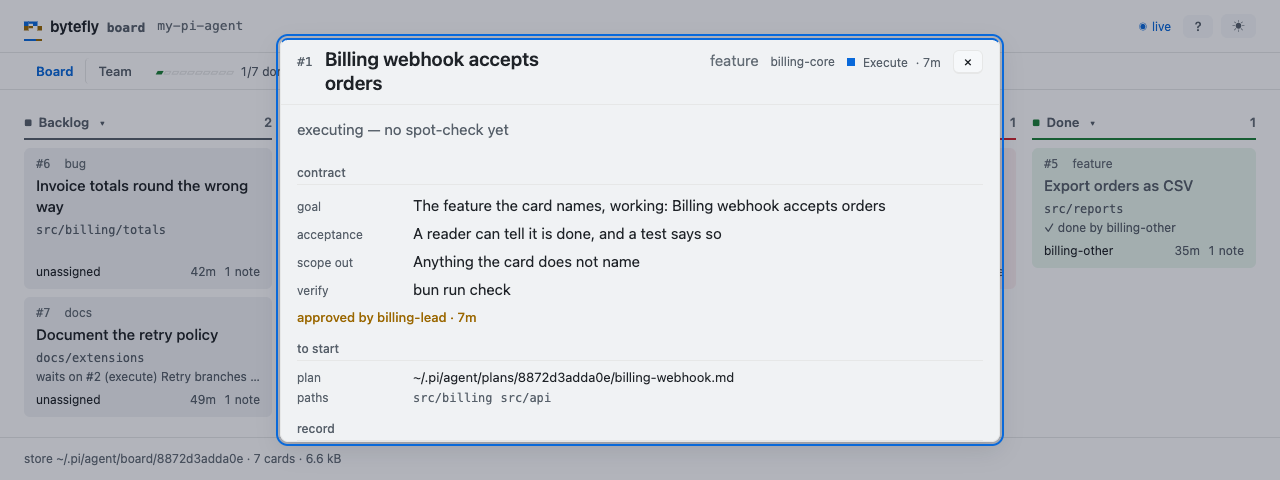
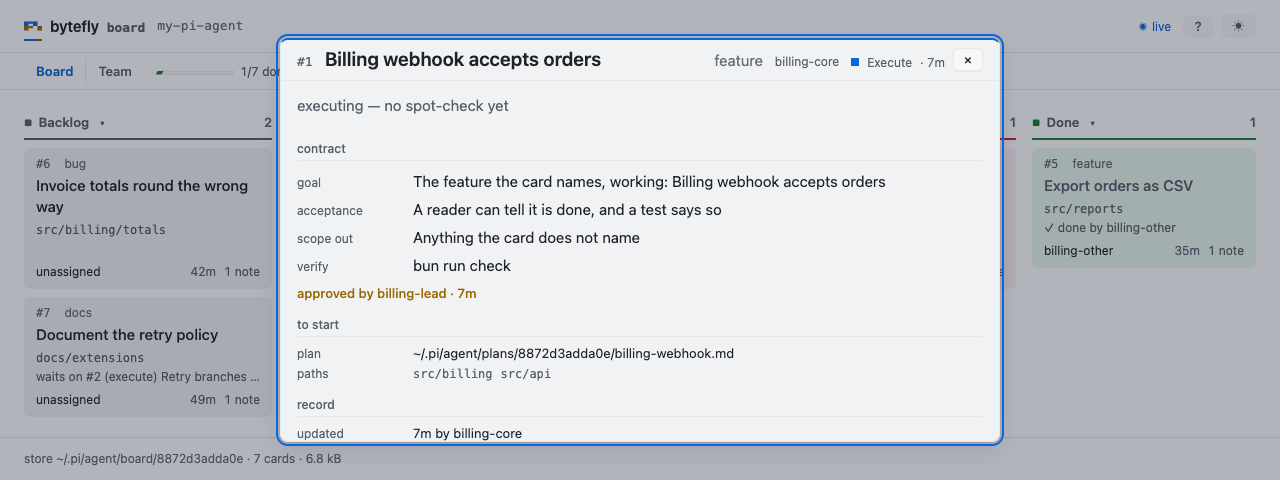
fix(board): give the card dialog's title the head's row
The head was one flex line: the id, the title on a 12ch basis, a kit spacer
that grew, then the card's type, owner, priority and lane. The spacer took
the slack before the title could, so the title wrapped in the column that
was left - 271px of a 686px row on the board's longest cards, six lines for
a CJK title, and the panel's height paid for it.

The spacer is gone and the title's basis is the row. The close button is
pinned in the panel's corner instead of riding last in the line, so a meta
that wraps cannot carry it mid-header; the head reserves its width, and the
panel gains the position an absolute child needs - the kit's own sets none,
which drew the button outside the dialog on the first attempt.

A long title now reads at 448px in two lines with a 65px head, and the meta
wraps under it only when the title needs the room, so a short title keeps
its one-line head. header-behaviour.test.ts measures that: the title owns
half the head's row, it does not clip, and the close's box stays inside the
panel at 1280 and 620. Restoring the old markup fails it, which is the
point - a rule can be right while the row is still short.

The dialog's screenshot is recaptured, its site copy synced, and the alt
text corrected: it described two notes no capture shows, at a height the
file has never been.

diff --git a/extensions/board/view/header-behaviour.test.ts b/extensions/board/view/header-behaviour.test.ts
@@ -1,0 +1,132 @@
+/**
+ * The card dialog's head, measured the way a layout defect has to be.
+ *
+ * Split from `dialog-behaviour.test.ts`, which is at its line budget, and from `run-row-behaviour`;
+ * the question is its own: the head is one flex line, and whether the title gets the row depends on
+ * arithmetic no rule can be read for. A declaration can be right while the row is still short — a
+ * spacer creeping back into the markup, a narrower panel, a meta that grows a field — so the case
+ * measures the boxes instead of the stylesheet.
+ *
+ * It needs a browser; where the machine has none it skips, naming `PI_CHROME`.
+ */
+
+import { afterAll, beforeAll, describe, expect, test } from "bun:test";
+import type { Page } from "playwright-core";
+import {
+	BOARD_CHROME as CHROME,
+	BOARD_PAINT_MS as PAINT_MS,
+	type BoardBrowser,
+	openBoardBrowser,
+} from "../../../test/helpers/board-browser.ts";
+import type { ElementLike } from "../../../test/helpers/board-dom.ts";
+import { LEAD, seedWorkingBoard } from "../../../test/helpers/board-fixture.ts";
+import { makeClock } from "../../../test/helpers/clock.ts";
+
+/** A fixed clock: the page prints ages, and a test that read the wall clock would drift. */
+const clock = makeClock(1_760_000_000_000);
+
+/** The board the suite reads. */
+let board: BoardBrowser;
+
+/** The suite's one tab, its document reloaded for each case. */
+const openPage = (): Promise<Page> => board.reuse();
+
+/** One box, in the page's own coordinates. */
+interface Box {
+	clientWidth: number;
+	scrollWidth: number;
+	left: number;
+	right: number;
+}
+
+/**
+ * The title's box and the panel's corner, read in the page.
+ *
+ * Two boxes and not a style: the title can be told to grow and still be drawn short, and a close
+ * that exists can still be drawn outside the panel it belongs to.
+ */
+const BOXES = (): { title: Box; close: Box; panel: Box; content: number } => {
+	const doc = globalThis as unknown as {
+		document: { querySelector(selector: string): ElementLike | null };
+		getComputedStyle(node: ElementLike): { paddingLeft: string; paddingRight: string };
+	};
+	const box = (selector: string): Box => {
+		const node = doc.document.querySelector(selector) as unknown as {
+			clientWidth: number;
+			scrollWidth: number;
+			getBoundingClientRect(): { left: number; right: number };
+		} | null;
+		if (node === null) throw new Error(`no ${selector} to measure`);
+		const rect = node.getBoundingClientRect();
+		return { clientWidth: node.clientWidth, scrollWidth: node.scrollWidth, left: rect.left, right: rect.right };
+	};
+	// The row the title is meant to own: the head's content box, its own padding taken out. The
+	// threshold below is a share of this, so it travels with the panel's width and the head's spacing.
+	const head = doc.document.querySelector(".board-dialog__head") as unknown as {
+		clientWidth: number;
+	} | null;
+	if (head === null) throw new Error("no .board-dialog__head to measure");
+	const style = doc.getComputedStyle(head as unknown as ElementLike);
+	return {
+		title: box("#card-dialog-title"),
+		close: box("#card-dialog-close"),
+		panel: box(".board-dialog__panel"),
+		content: head.clientWidth - parseFloat(style.paddingLeft) - parseFloat(style.paddingRight),
+	};
+};
+
+describe.skipIf(CHROME === undefined)("the card dialog's head", () => {
+	beforeAll(async () => {
+		board = await openBoardBrowser({
+			lead: LEAD.label,
+			now: clock.now,
+			seed: seedWorkingBoard,
+			display: { repo: "my-pi-agent", root: "/Users/someone/my-pi-agent", where: "~/.pi/agent/board/head" },
+		});
+	}, 30_000);
+
+	afterAll(async () => {
+		await board?.close();
+	}, 30_000);
+
+	test("gives the title the row, and keeps the close inside the panel at both widths", async () => {
+		const page = await openPage();
+		await page.click("#lane-execute .bf-row__title");
+		await page.waitForSelector("#board-card-dialog:not([hidden])", { timeout: PAINT_MS });
+
+		// At 1280 the title's box is most of the head's row. The share, not a pixel count: the old
+		// head's spacer grew first and left the title its 12ch basis, about a quarter of the row, so
+		// half is the line between "the title owns the row" and "something else grew first" — and a
+		// share travels with the panel, the padding and the meta, where 400px did not.
+		const wide = await page.evaluate(BOXES);
+		expect(wide.title.clientWidth * 2).toBeGreaterThanOrEqual(wide.content);
+		// And the title does not overflow its own box: a width assertion alone passes on a title drawn
+		// past the column it was given, which is the clipped-row lesson one row up.
+		expect(wide.title.scrollWidth).toBeLessThanOrEqual(wide.title.clientWidth);
+		// The close is a box, not a presence: the first attempt at pinning it drew the button outside the
+		// panel entirely, and "the element exists" was true the whole time it was gone.
+		expect(wide.close.right).toBeLessThanOrEqual(wide.panel.right);
+		expect(wide.close.left).toBeGreaterThanOrEqual(wide.panel.left);
+
+		// At 620 the meta has to wrap under the title; the title still may not clip, and the pinned
+		// close still belongs to the panel rather than to the row it just stopped sharing.
+		await page.setViewportSize({ width: 620, height: 900 });
+		// A wait for the resize itself, not a sleep: the panel is `min(720px,100%)`, so it only narrows
+		// once the new viewport has been laid out, and the head's reflow is what changed with it.
+		await page.waitForFunction(
+			(previous) => {
+				const doc = globalThis as unknown as {
+					document: { querySelector(selector: string): { clientWidth: number } | null };
+				};
+				const panel = doc.document.querySelector(".board-dialog__panel");
+				return panel !== null && panel.clientWidth < previous;
+			},
+			wide.panel.clientWidth,
+			{ timeout: PAINT_MS },
+		);
+		const narrow = await page.evaluate(BOXES);
+		expect(narrow.title.scrollWidth).toBeLessThanOrEqual(narrow.title.clientWidth);
+		expect(narrow.close.right).toBeLessThanOrEqual(narrow.panel.right);
+		expect(narrow.close.left).toBeGreaterThanOrEqual(narrow.panel.left);
+	});
+});

diff --git a/extensions/board/view/styles.ts b/extensions/board/view/styles.ts
@@ -369,10 +369,15 @@ ${DECISION_WHY_CSS}
    Nothing here scrolls on its own — the kit's body is the one scrollbar. */
 /* A little taller than the kit's default: this dialog is the only place a whole card —
    its facts, its plan, and every note it kept — can be read. */
-.board-dialog__panel{width:min(720px,100%);max-height:84vh;background:var(--raised);box-shadow:var(--shadow-2)}
-/* A long title wraps beside its id instead of pushing the close button off the head. */
-.board-dialog__head{flex-wrap:wrap;align-items:baseline;row-gap:var(--space-1)}
-.board-dialog__head h2{flex:1 1 12ch;min-width:0;font-size:var(--fs-lg);line-height:var(--lh-tight);overflow-wrap:anywhere}
+.board-dialog__panel{position:relative;width:min(720px,100%);max-height:84vh;background:var(--raised);box-shadow:var(--shadow-2)}
+/* The title takes the row's slack and the meta wraps beneath it only when it needs the width, which
+   is what a fixed spacer in the head used to prevent: it grew first, so a long title wrapped in the
+   column that was left over. The close sits out of the flow in the panel's corner — pinned rather
+   than last in the line, so a meta that wraps cannot carry it mid-header — and the right padding
+   keeps the title clear of it: the kit's icon button is 30px wide, drawn from its own corner. */
+.board-dialog__head{flex-wrap:wrap;align-items:baseline;row-gap:var(--space-1);padding-right:calc(var(--space-4) + 30px + var(--space-2))}
+.board-dialog__head h2{flex:1 1 22ch;min-width:0;font-size:var(--fs-lg);line-height:var(--lh-tight);overflow-wrap:anywhere}
+.board-dialog__head #card-dialog-close{position:absolute;top:var(--space-2);right:var(--space-4)}
 .board-dialog__id{font:var(--fs-sm) var(--font-mono);color:var(--muted)}
 .board-dialog__body{display:flex;flex-direction:column;gap:var(--space-4);padding-bottom:var(--space-4)}
 .board-dialog__section{display:flex;flex-direction:column;gap:var(--space-2);min-width:0}

diff --git a/extensions/board/view/dialog.test.ts b/extensions/board/view/dialog.test.ts
@@ -87,6 +87,25 @@ describe("the dialog's document", () => {
 		expect(reason).toContain("68ch");
 	});
 
+	test("gives the title the row, and keeps the close out of it", () => {
+		// The head was one flex line whose spacer grew first, so a long title wrapped in the column
+		// left over — 271px of a 686px row, and the CJK title on #685 took six lines for it. The
+		// title's basis is the fix; the geometry that proves it is `header-behaviour.test.ts`'s,
+		// because a rule can be right while the row is still short (a spacer creeping back, a
+		// narrower panel).
+		const title = ownRules().match(/\.board-dialog__head h2\{[^}]*\}/)?.[0] ?? "";
+		expect(title).toContain("flex:1 1 22ch");
+		expect(title).toContain("min-width:0");
+		// The close is pinned in the panel's corner rather than left last in the line: a meta that
+		// wraps would otherwise carry it mid-header. Absolute needs a positioned panel, and the
+		// kit's own sets none — without this the button escapes the dialog.
+		expect(ownRules().match(/\.board-dialog__panel\{[^}]*\}/)?.[0] ?? "").toContain("position:relative");
+		const close = ownRules().match(/\.board-dialog__head #card-dialog-close\{[^}]*\}/)?.[0] ?? "";
+		expect(close).toContain("position:absolute");
+		// And the head keeps the title clear of the corner it now shares, by the button's own width.
+		expect(ownRules().match(/\.board-dialog__head\{[^}]*\}/)?.[0] ?? "").toContain("padding-right:calc(");
+	});
+
 	test("tones the reason and the signature by the one tone table", () => {
 		// The reason line takes its kind's tone and a sign takes the approval's, so a blocked
 		// card's dialog is as loud as its face and an approved contract reads the same colour

diff --git a/extensions/board/view/page.ts b/extensions/board/view/page.ts
@@ -103,7 +103,6 @@ ${pageFooter({ factsId: "board-where", facts: `store ${input.where}` })}
     <div class="bf-dialog__head ${N.dialogHead}">
       <span class="${N.dialogId}" id="card-dialog-id"></span>
       <h2 id="card-dialog-title"></h2>
-      <span class="bf-spacer"></span>
       <span id="card-dialog-kind" hidden></span>
       <span id="card-dialog-owner"></span>
       <span class="${N.rowPriority}" id="card-dialog-priority" hidden></span>

diff --git a/test/suite-manifest.ts b/test/suite-manifest.ts
@@ -91,6 +91,7 @@ export const EXTENSION_SUITES: Record<string, readonly string[]> = {
 		"view/dialog",
 		"view/dialog-behaviour",
 		"view/face",
+		"view/header-behaviour",
 		"view/filter-behaviour",
 		"view/kind",
 		"view/lane-heads",

diff --git a/docs/tutorials/first-board.md b/docs/tutorials/first-board.md
@@ -144,7 +144,7 @@ the session bus, so the person waiting knows the lane opened.
 reload. Filter the cards, fold `done` away, or open the **Team** tab to see who
 is live, quiet, or gone — and which cards are waiting on a decision.
 
-<img src="../../assets/screens/card-dialog.png" alt="The card dialog: a card's title, its type, owner and lane, its reason line, its contract with goal, acceptance, and scope out under an approval note, the plan and paths it is started from, when it last changed, and its two notes" width="1280" height="597">
+<img src="../../assets/screens/card-dialog.png" alt="The card dialog: the card's title with its type, owner, lane and age beside it, its reason line, its contract with goal, acceptance, scope out and verify under the approval note, the plan and path hints it is started from, and when it last changed" width="1280" height="480">
 
 *One card opened: the contract it promises, the plan it is executed against, and
 the notes that explain it.*

diff --git a/CHANGELOG.md b/CHANGELOG.md
@@ -44,6 +44,12 @@ to [Semantic Versioning](https://semver.org/spec/v2.0.0.html).
 
 ### Fixed
 
+- `board`: the card dialog's title takes the head's row. A spacer between the title and the card's
+  type, owner and lane grew before the title could, so a long title wrapped in the column that was
+  left — 271px of a 686px row, six lines for a CJK title, and the panel's height paid for it. The
+  close now sits in the panel's corner rather than last in the line, so the meta can wrap beneath the
+  title when the title needs the width, and a short title keeps its one-line head.
+
 - `board`: a finished card's dialog names the merge the close recorded, in a `landed` row of its own
   and in the transcript's spelling (the first seven characters), and the spot-check's run above it is
   drawn whole. The `reviewed` row had been one nowrap line with no tooltip of its own, so a run taken
